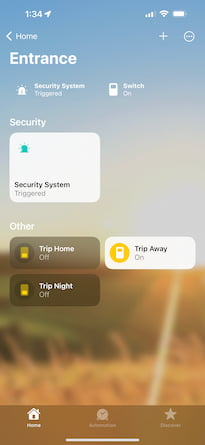
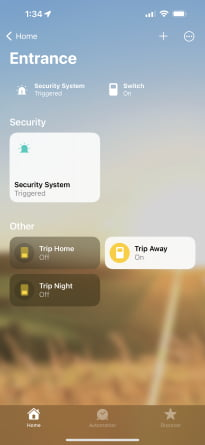
Improve README (#330)

diff --git a/README.md b/README.md
@@ -17,7 +17,7 @@ If you already have [Homebridge](https://github.com/homebridge/homebridge) insta
 ## Demo
 
 <div align="left">
-  <img align="right" width="206" height="445" src="./.github/demo.jpg">
+  <img align="right" width="205" height="445" src="./.github/demo.jpg">
   <p>Want to know how it looks like? It's pretty customizable, you can configure it to show as many switches as you like.</p>
   <p>What you are seeing at your right is <b>the friendliest</b> configuration that you can start with, each <code>Trip</code> switch that you see can only trip the security system if the mode is set on the security system. This allows you to create logic-less automations from the very Home app that comes already installed on iOS.</p>
   <p>There are also <code>Mode</code> switches which let you run automations that interact with your accessories when a mode is changed or set modes bypassing HomeKit confirmation dialogs.</p>
@@ -41,9 +41,6 @@ Here are some examples of automations that can be created:
 (1) Shortcuts app is required to create this automation.
 
 (2) AirPlay 2 speaker and Apple Music subscription are required.
-
-> **Warning**
-> Use an NFC tag to arm/disarm the security system easily and securely without using the `Home` app.
 
 ## Contributions
 
